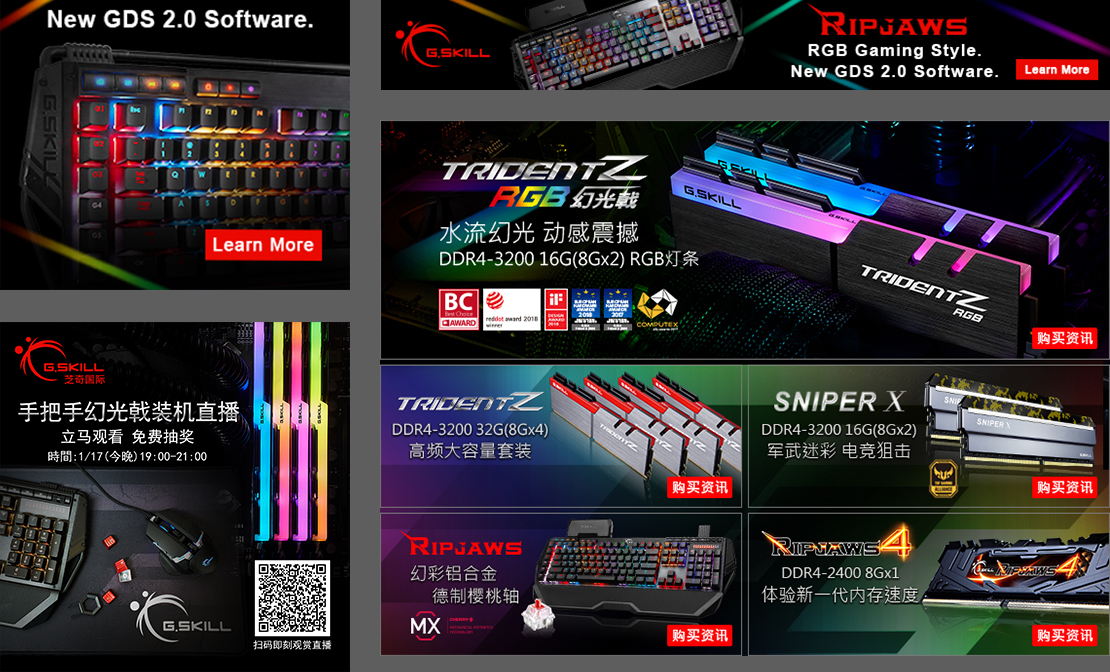
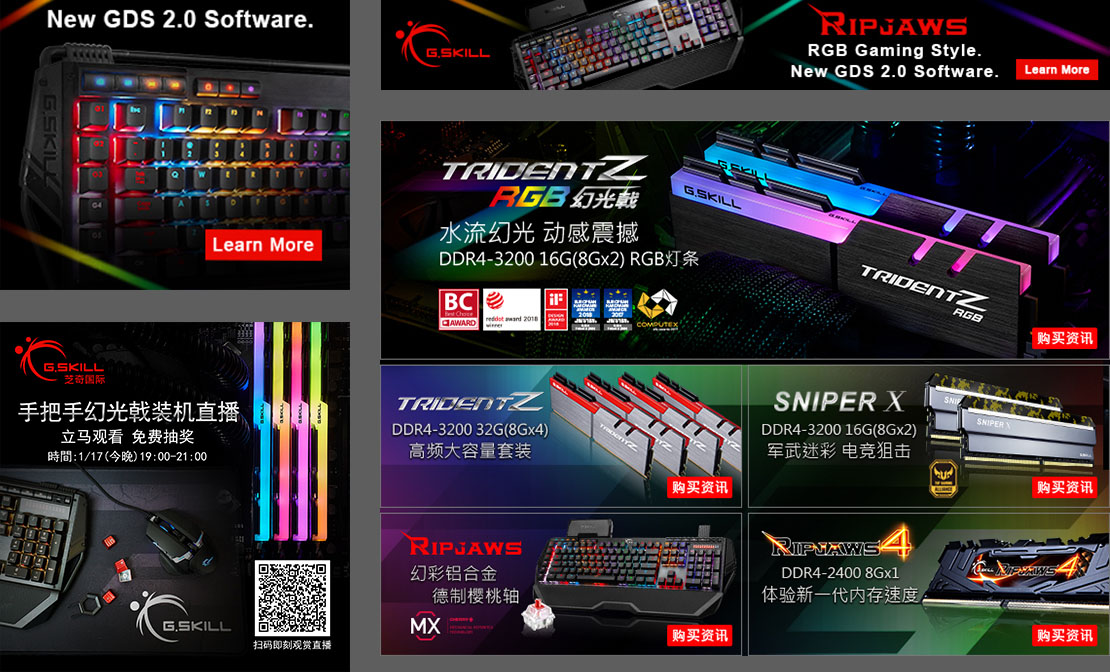
GS

diff --git a/GS.html b/GS.html
@@ -170,18 +170,18 @@
 				<h1>Post Banner</h1>
 		</div>	
 	 	<div class="container_fb">
-				<a href="https://www.facebook.com/gskillofficial/videos/1627079610668856/" target="blank" ><img src="images/GS/fb06@2x.png" class="bt" ></a>
-				<a href="https://www.facebook.com/gskillofficial/videos/1727404663969683/" target="blank"><img src="images/GS/fb05@2x.png" class="bt" ></a>
-				<img src="images/GS/fb01@2x.png" alt="">
-				<a href="https://www.facebook.com/gskillofficial/videos/1634011809975636/?__tn__=-R" target="blank" ><img src="images/GS/fb10@2x.png" class="bt" ></a>
-				<a href="https://www.facebook.com/gskillofficial/videos/2247231925597790/" target="blank" ><img src="images/GS/fb04@2x.png" class="bt" ></a>
-				<a href="https://www.facebook.com/gskillofficial/videos/1768480313195451/" target="blank" ><img src="images/GS/fb16@2x.png" class="bt" ></a>
-				<img src="images/GS/fb03@2x.png" alt="">
-				<img src="images/GS/fb08@2x.png" alt="">
-				<img src="images/GS/fb15@2x.png" alt="">
-				<img src="images/GS/fb09@2x.png" alt="">
-				<img src="images/GS/fb14@2x.png" alt="">
-				<img src="images/GS/fb12@2x.png" alt="">
+				<a href="https://www.facebook.com/gskillofficial/videos/1627079610668856/" target="blank" ><img src="images/GS/fb06@2x.jpg" class="bt" ></a>
+				<a href="https://www.facebook.com/gskillofficial/videos/1727404663969683/" target="blank"><img src="images/GS/fb05@2x.jpg" class="bt" ></a>
+				<img src="images/GS/fb01@2x.jpg">
+				<a href="https://www.facebook.com/gskillofficial/videos/1634011809975636/?__tn__=-R" target="blank" ><img src="images/GS/fb10@2x.jpg" class="bt" ></a>
+				<a href="https://www.facebook.com/gskillofficial/videos/2247231925597790/" target="blank" ><img src="images/GS/fb04@2x.jpg" class="bt" ></a>
+				<a href="https://www.facebook.com/gskillofficial/videos/1768480313195451/" target="blank" ><img src="images/GS/fb16@2x.jpg" class="bt" ></a>
+				<img src="images/GS/fb03@2x.jpg">
+				<img src="images/GS/fb08@2x.jpg">
+				<img src="images/GS/fb15@2x.jpg">
+				<img src="images/GS/fb09@2x.jpg">
+				<img src="images/GS/fb14@2x.jpg">
+				<img src="images/GS/fb12@2x.jpg">
 		</div>	
 	</section>
 	
